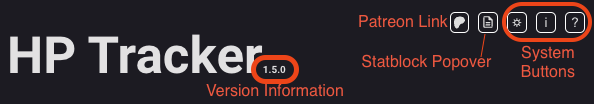
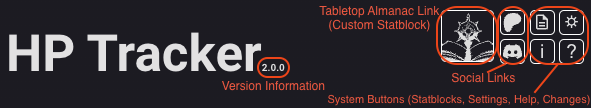
Prepare release

Changed region(s): [[0.5178, 0.0, 1.0, 0.8654], [0.0, 0.3173, 1.0, 0.9808], [0.3046, 0.2885, 0.335, 0.3462]]

diff --git a/src/css/base/_base.scss b/src/css/base/_base.scss
@@ -36,6 +36,12 @@ body {
         background-color: rgba(255, 255, 255, 0.5);
     }
 
+    &:not(:has(.overlay)) {
+        &::after {
+            background: var(--bg-color);
+        }
+    }
+
     &:not(:has(.roll-log-popover, .modal-wrapper, .modal-app)) {
         &::after {
             background: linear-gradient(to bottom, var(--bg-color) 85%, var(--bg-color-light));

diff --git a/src/css/base/_buttons.scss b/src/css/base/_buttons.scss
@@ -166,7 +166,6 @@ button,
 
         &:hover,
         &:focus {
-            overflow: hidden;
             svg {
                 animation: shaking 0.2s alternate linear infinite;
             }

diff --git a/docs/store.md b/docs/store.md
@@ -44,6 +44,7 @@ learn-more: https://github.com/kamejosh/owlbear-hp-tracker
     - [Single Selection](#single-selection)
     - [Multi Selection](#multi-selection)
   + [Statblock Popover](#hp-tracker-statblock-popover)
+- [Custom Statblocks](#custom-statblocks)
 - [Dice Roller](#dice-roller)
   + [Disclaimer](#disclaimer)
   + [Getting Started](#getting-started)
@@ -76,8 +77,8 @@ The PCs start the combat with three temporary HP because of effect that was acti
 ## How
 
 + Create a new scene based on a map you have in your collection.
-+ Drop all the PC Tokens you need and fill in their info.
-+ Drop an Ogre and Hobgoblin Token on scene and connect them with their statblocks
++ Drop all the PC Tokens you need and fill in their info (or create custom statblocks for your PC).
++ Drop an Ogre and Hobgoblin Token on scene and connect them with their statblocks (this will be done automatically for all statblocks where a matching entry is found)
 + Copy the Hobgoblin Token four times
 + Roll initiative for the whole group and sort by initiative
 + Start combat
@@ -129,7 +130,7 @@ The Action Window can be opened by clicking the HP Tracker Action Icon in the Ow
 
 ![Action Window Top](https://raw.githubusercontent.com/kamejosh/owlbear-hp-tracker/master/docs/action_window_top.png)
 
-At the top of the action window the current version of the extension is displayed as well as three system buttons, the statblock popover button and a link to the HP Tracker Patreon page.
+At the top of the action window the current version of the extension is displayed as well as the link to the Tabletop Alamanac (to create custom statblocks), three system buttons, the statblock popover button, a link to the HP Tracker Patreon page, and a link to the HP Tracker/Tabletop Alamanac Discord.
 
 The system buttons open a new modal (changelog and help are opened in fullscreen mode):
 + The [⛭] buttons opens the [global settings](#global-settings).
@@ -138,7 +139,7 @@ The system buttons open a new modal (changelog and help are opened in fullscreen
 
 The statblock popover button opens a popover, for more information see [here](#hp-tracker-statblock-popover).
 
-The Patreon Link opens in a new window.
+The TA Link, Patreon Link and Discord Link open in a new window.
 
 #### Settings
 
@@ -154,6 +155,7 @@ Settings are grouped into two categories:
 The following settings are available:
 
 + Statblock Game Rules: You can choose between DnD 5e and Pathfinder 2e as source for your statblocks. This will impact what statblocks are found, how they are displayed, and the content (including spells).
++ Tabletop Almanac API Key: Here you can enter the Tabletop Almanac API Key to access your custom statblocks
 + HP Bar Segments: This setting can be used to obfuscate the real HP loss of a creature. E.g. when set to "2" the HP Bar differentiates between 3 states: Full HP, less than half HP, and 0 HP. When changing the settings HP Bars are not updated until the HP value is changed at least once.
 + Text and Bar Offset: To have a more flexible positioning of the HP Bar and Text, a value can be entered (negative or positive number) and the position of the HP Bar and Text is then adjusted by this value.
 + Armorclass Icon and Text Offset: To have a more flexible positioning of the AC Background and Text an offset for the X- and Y-Axis can be added. This value is scaled considering the Token size.
@@ -268,13 +270,15 @@ When initializing manually you enter the 4 available fields manually. Normally t
 
 #### Statblock
 
-The statblock offers a search field for creature statblocks on ttrpg-api.bitperfect-software.com. By default the Token Name is used to make an initial search. If the Token name has a modifier like A, B, A1, C, 1, 3, or similar at the end it will be automatically ignored for the search.
+The statblock offers a search field for creature statblocks on api.tabletop-almanac.com. By default the Token Name is used to make an initial search. If the Token name has a modifier like A, B, A1, C, 1, 3, or similar at the end it will be automatically ignored for the search.
 
 All results for the current search are displayed with their HP, AC and CR visible.
 
 ![Statblock Search](https://raw.githubusercontent.com/kamejosh/owlbear-hp-tracker/master/docs/statblock_search.png)
 
-By clicking on one of the options this statblock is selected for the Token. If there are no values set for the Token, the values of the creature statblock are automatically used.
+Available Statblocks have varying background depending on their source. Custom Statblocks created on tabletop-almanac.com are displayed first and with a slight green background. The currently selected statblock has a white glow.
+
+By clicking on one of the options this statblock is selected for the Token. If there are no values set for the Token or the Token still has its automatically assigned values, the values of the creature statblock are automatically used.
 
 ![Statblock Selected](https://raw.githubusercontent.com/kamejosh/owlbear-hp-tracker/master/docs/statblock_selected.png)
 
@@ -333,6 +337,10 @@ By default when selecting a Token either in the [HP Tracker Action Window](#hp-t
 
 ![Statblock Demo](https://raw.githubusercontent.com/kamejosh/owlbear-hp-tracker/master/docs/statblock_demo.gif)
 
+# Custom Statblocks
+
+Custom statblocks can be created at tabletop-almanac.com. Free accounts can create up to 20 statblocks and activate 10 statblocks at the same time. To increase this limit go to my patreon and consider supporting me.
+
 # Dice Roller
 
 Starting with Version 1.6.0 HP Tracker comes with an integrated dice-roller. It can be disabled (removed) by changing the [Disable Dice Roller Setting](#room-settings);
@@ -341,7 +349,7 @@ Starting with Version 1.6.0 HP Tracker comes with an integrated dice-roller. It 
 
 ## Disclaimer
 
-There are still a few things I want to add and also things that could be better (like dice rolling both in statblock popover and action window). I'm actively working on addressing those things and improving the dice roller. If you want to give feedback or have issues you want to report let me know on Patreon.
+There are still a few things I want to add and also things that could be better. I'm actively working on addressing those things and improving the dice roller. If you want to give feedback or have issues you want to report let me know on Patreon or Discord.
 
 ## Getting Started
 

diff --git a/USAGE.md b/USAGE.md
@@ -19,6 +19,7 @@
     - [Single Selection](#single-selection)
     - [Multi Selection](#multi-selection)
   + [Statblock Popover](#hp-tracker-statblock-popover)
+- [Custom Statblocks](#custom-statblocks)
 - [Dice Roller](#dice-roller)
   + [Disclaimer](#disclaimer)
   + [Getting Started](#getting-started)
@@ -51,8 +52,8 @@ The PCs start the combat with three temporary HP because of effect that was acti
 ## How
 
 + Create a new scene based on a map you have in your collection. 
-+ Drop all the PC Tokens you need and fill in their info.
-+ Drop an Ogre and Hobgoblin Token on scene and connect them with their statblocks
++ Drop all the PC Tokens you need and fill in their info (or create custom statblocks for your PC).
++ Drop an Ogre and Hobgoblin Token on scene and connect them with their statblocks (this will be done automatically for all statblocks where a matching entry is found)
 + Copy the Hobgoblin Token four times
 + Roll initiative for the whole group and sort by initiative
 + Start combat
@@ -104,7 +105,7 @@ The Action Window can be opened by clicking the HP Tracker Action Icon in the Ow
 
 ![Action Window Top](https://raw.githubusercontent.com/kamejosh/owlbear-hp-tracker/master/docs/action_window_top.png)
 
-At the top of the action window the current version of the extension is displayed as well as three system buttons, the statblock popover button and a link to the HP Tracker Patreon page. 
+At the top of the action window the current version of the extension is displayed as well as the link to the Tabletop Alamanac (to create custom statblocks), three system buttons, the statblock popover button, a link to the HP Tracker Patreon page, and a link to the HP Tracker/Tabletop Alamanac Discord. 
 
 The system buttons open a new modal (changelog and help are opened in fullscreen mode):
 + The [⛭] buttons opens the [global settings](#global-settings).
@@ -113,7 +114,7 @@ The system buttons open a new modal (changelog and help are opened in fullscreen
 
 The statblock popover button opens a popover, for more information see [here](#hp-tracker-statblock-popover).
 
-The Patreon Link opens in a new window.
+The TA Link, Patreon Link and Discord Link open in a new window.
 
 #### Settings
 
@@ -129,6 +130,7 @@ Settings are grouped into two categories:
 The following settings are available:
 
 + Statblock Game Rules: You can choose between DnD 5e and Pathfinder 2e as source for your statblocks. This will impact what statblocks are found, how they are displayed, and the content (including spells).
++ Tabletop Almanac API Key: Here you can enter the Tabletop Almanac API Key to access your custom statblocks
 + HP Bar Segments: This setting can be used to obfuscate the real HP loss of a creature. E.g. when set to "2" the HP Bar differentiates between 3 states: Full HP, less than half HP, and 0 HP. When changing the settings HP Bars are not updated until the HP value is changed at least once.
 + Text and Bar Offset: To have a more flexible positioning of the HP Bar and Text, a value can be entered (negative or positive number) and the position of the HP Bar and Text is then adjusted by this value.
 + Armorclass Icon and Text Offset: To have a more flexible positioning of the AC Background and Text an offset for the X- and Y-Axis can be added. This value is scaled considering the Token size. 
@@ -243,13 +245,15 @@ When initializing manually you enter the 4 available fields manually. Normally t
 
 #### Statblock
 
-The statblock offers a search field for creature statblocks on ttrpg-api.bitperfect-software.com. By default the Token Name is used to make an initial search. If the Token name has a modifier like A, B, A1, C, 1, 3, or similar at the end it will be automatically ignored for the search.
+The statblock offers a search field for creature statblocks on api.tabletop-almanac.com. By default the Token Name is used to make an initial search. If the Token name has a modifier like A, B, A1, C, 1, 3, or similar at the end it will be automatically ignored for the search.
 
 All results for the current search are displayed with their HP, AC and CR visible.
 
 ![Statblock Search](https://raw.githubusercontent.com/kamejosh/owlbear-hp-tracker/master/docs/statblock_search.png)
 
-By clicking on one of the options this statblock is selected for the Token. If there are no values set for the Token, the values of the creature statblock are automatically used. 
+Available Statblocks have varying background depending on their source. Custom Statblocks created on tabletop-almanac.com are displayed first and with a slight green background. The currently selected statblock has a white glow.
+
+By clicking on one of the options this statblock is selected for the Token. If there are no values set for the Token or the Token still has its automatically assigned values, the values of the creature statblock are automatically used. 
 
 ![Statblock Selected](https://raw.githubusercontent.com/kamejosh/owlbear-hp-tracker/master/docs/statblock_selected.png)
 
@@ -308,6 +312,10 @@ By default when selecting a Token either in the [HP Tracker Action Window](#hp-t
 
 ![Statblock Demo](https://raw.githubusercontent.com/kamejosh/owlbear-hp-tracker/master/docs/statblock_demo.gif)
 
+# Custom Statblocks
+
+Custom statblocks can be created at tabletop-almanac.com. Free accounts can create up to 20 statblocks and activate 10 statblocks at the same time. To increase this limit go to my patreon and consider supporting me.
+
 # Dice Roller
 
 Starting with Version 1.6.0 HP Tracker comes with an integrated dice-roller. It can be disabled (removed) by changing the [Disable Dice Roller Setting](#room-settings);
@@ -316,7 +324,7 @@ Starting with Version 1.6.0 HP Tracker comes with an integrated dice-roller. It 
 
 ## Disclaimer
 
-There are still a few things I want to add and also things that could be better (like dice rolling both in statblock popover and action window). I'm actively working on addressing those things and improving the dice roller. If you want to give feedback or have issues you want to report let me know on Patreon.
+There are still a few things I want to add and also things that could be better. I'm actively working on addressing those things and improving the dice roller. If you want to give feedback or have issues you want to report let me know on Patreon or Discord.
 
 ## Getting Started
 
